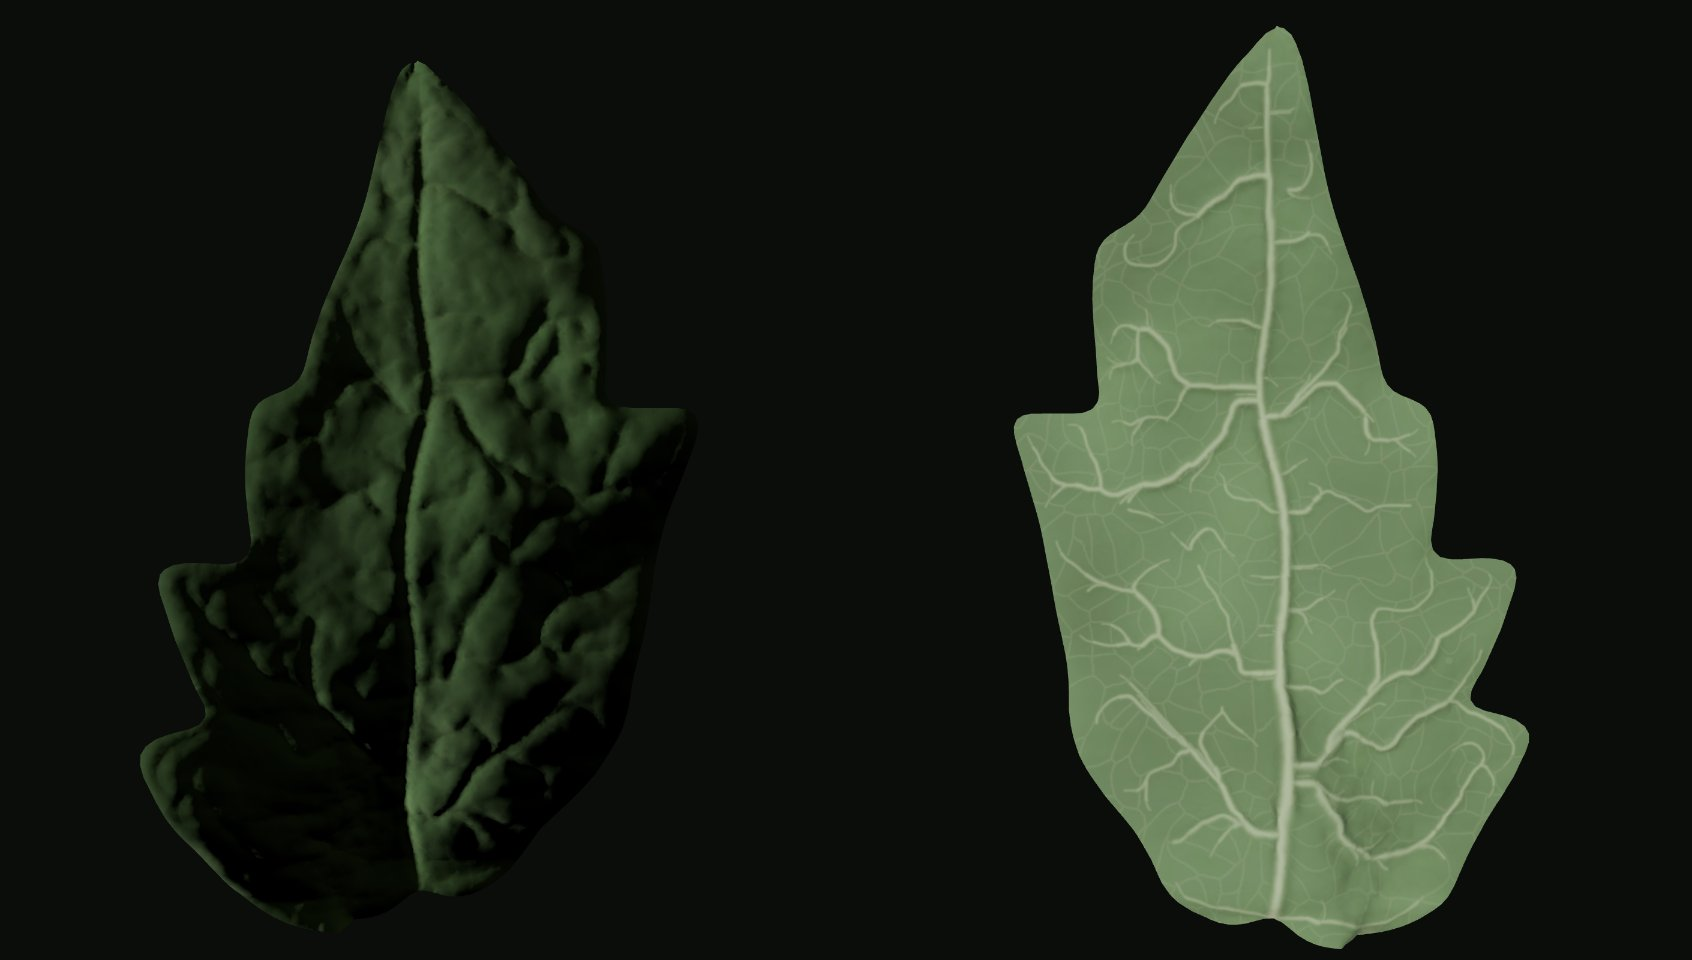
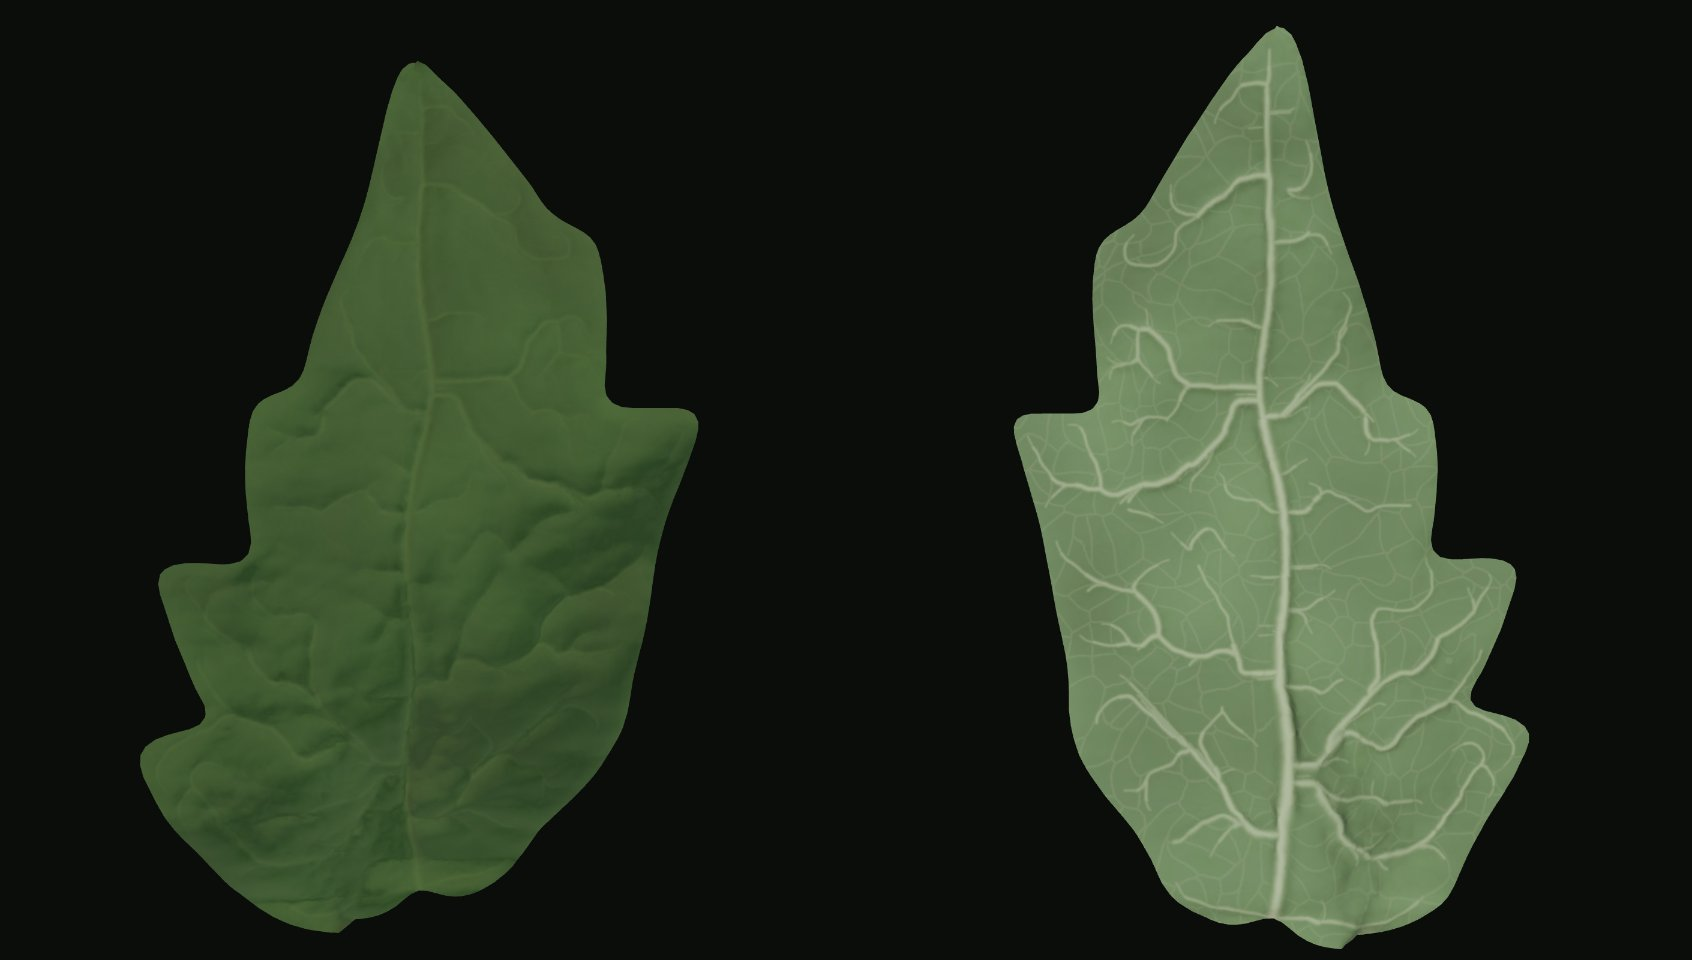
README: relief figure with studio light on the upper side

Changed region(s): [[0.0615, 0.0625, 0.4303, 0.9688]]

diff --git a/README.md b/README.md
@@ -47,7 +47,7 @@ the drawing. The repaired drawing becomes a vein tree with flow-ranked branches.
 bulges like a pillow and the veins are the creases between them; on the underside the veins stand
 out as ribs, wider and higher with their order.
 
-![Upper side under grazing light and underside against the light](docs/figures/relief.jpg)
+![Upper side in studio light and underside against the light](docs/figures/relief.jpg)
 
 **4. Bend.** The bend is drawn from a prior, not predicted from the outline, which explains little
 of it. Real leaflets from Pheno4D are flattened onto normalised leaf coordinates, s along the
